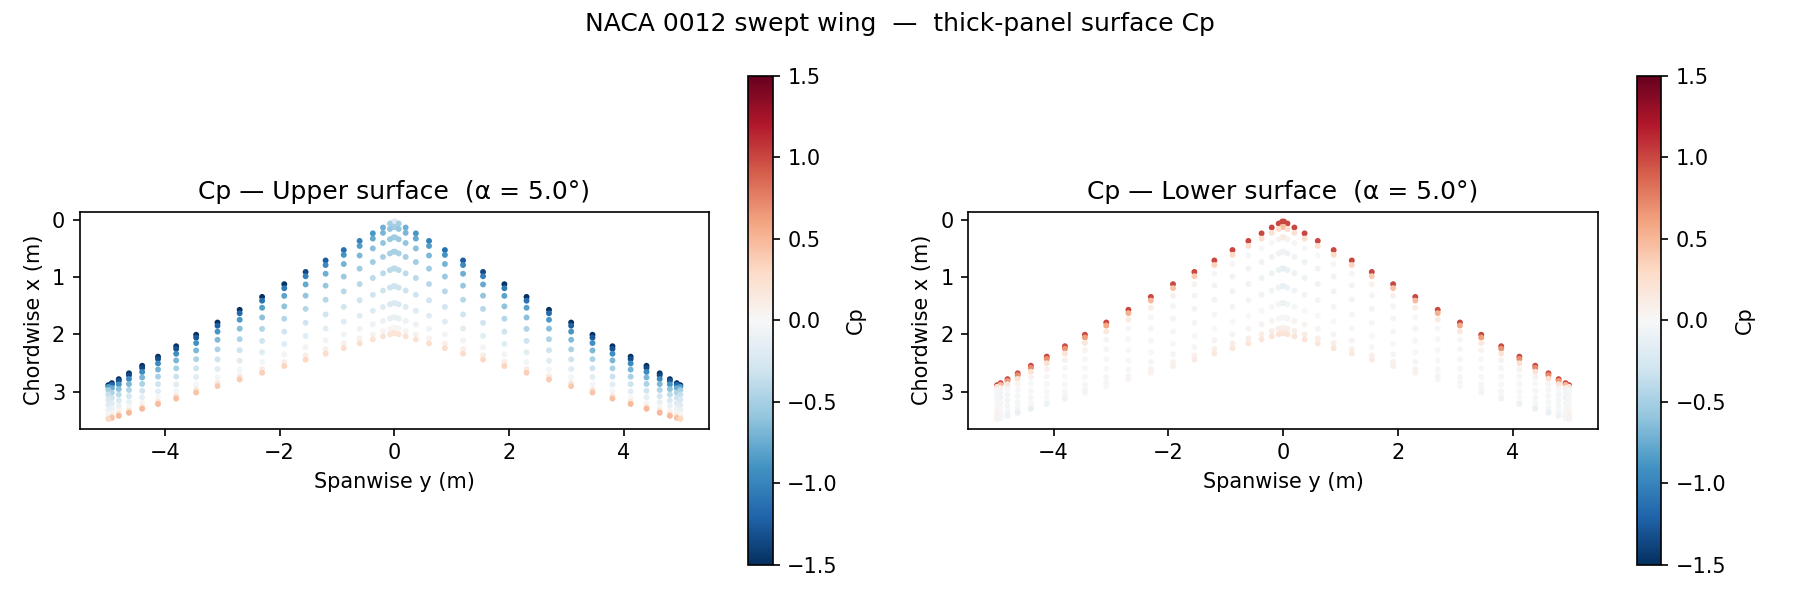
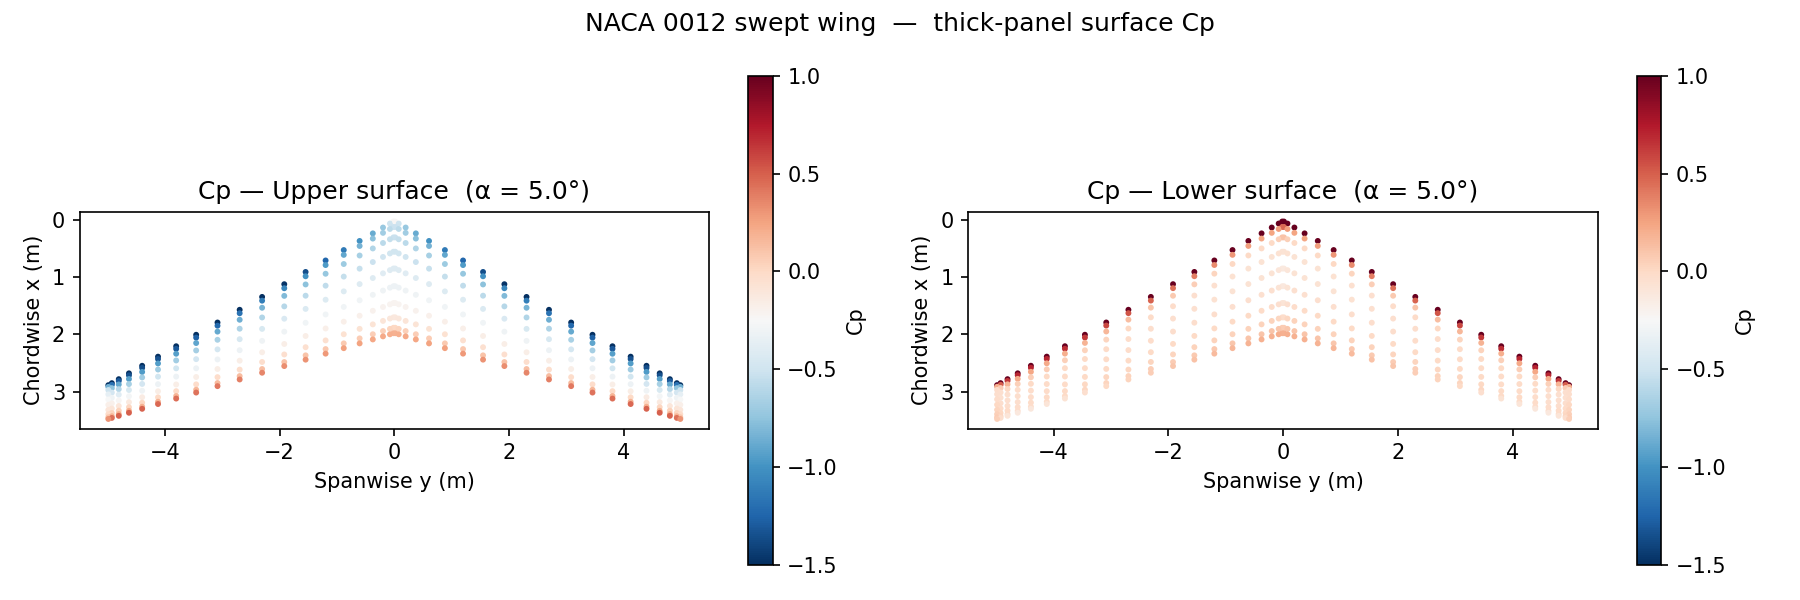
example 03: spanwise loading comparison, Cp axis fix, contour vmax fix
Three changes to 03_thick_flying_wing.py:

1. New figure 03_spanwise_loading.png
   Compares dCL/dη vs η at the design point from two methods:
   - VLM K-J (near-field per-panel dCL, summed over chord per strip)
   - TP Cp-integrated (upper+lower panel forces projected onto lift
     direction, summed over chord per strip, normalised by q·S_ref·Δη)
   Elliptic reference matched to TP total CL is also shown.

2. Cp axis orientation in 03_Cp_chordwise.png
   Replaced ax.invert_yaxis() + set_ylim(min,max) with
   set_ylim(1.3, ymin) directly — passing bottom > top in set_ylim
   produces the inverted axis without relying on invert_yaxis() whose
   interaction with a subsequent set_ylim is version-dependent.
   Ylabel updated to "Cp (suction up)".

3. Cp_contour vmax 1.5 → 1.0
   solve_morino clips all panel Cp to ≤ 1 (Bernoulli hard bound).
   Setting vmax=1.5 made the colorbar appear to allow Cp>1 even though
   no panel data exceeds 1.0.  Fixed to vmax=1.0.

diff --git a/examples/03_thick_flying_wing/03_thick_flying_wing.py b/examples/03_thick_flying_wing/03_thick_flying_wing.py
@@ -37,7 +37,8 @@ Outputs (saved in same directory as this script)
 -------------------------------------------------
 03_CL_vs_alpha.png         — CL(α): thick-panel vs VLM reference
 03_Cp_contour.png          — Surface Cp contour on upper and lower wing
-03_Cp_chordwise.png        — Chordwise Cp at three spanwise stations
+03_Cp_chordwise.png        — Chordwise Cp at three spanwise stations (TP vs VLM)
+03_spanwise_loading.png    — Spanwise loading dCL/dη: thick-panel (Cp-integrated) vs VLM (K-J)
 """
 import os
 import sys
@@ -142,7 +143,9 @@ for ax, pv, Cp_surf, title in [
     cy_full = np.concatenate([-cy, cy])
     Cp_full = np.concatenate([Cp_surf, Cp_surf])
 
-    vmin, vmax = -1.5, 1.5
+    # vmax=1.0 matches the physical Bernoulli upper bound (data clipped in solve_morino);
+    # vmax=1.5 would make the colorbar appear to allow Cp>1 even though no panel does.
+    vmin, vmax = -1.5, 1.0
     sc = ax.scatter(cy_full, cx_full, c=Cp_full, cmap="RdBu_r",
                     vmin=vmin, vmax=vmax, s=8, linewidths=0)
     ax.set_xlabel("Spanwise y (m)")
@@ -207,12 +210,12 @@ for ax, js, label in zip(axes, js_list, js_labels):
     ax.set_title(label)
     ax.legend(fontsize=7)
     ax.grid(True, alpha=0.3)
-    ax.invert_yaxis()
-    # Fix y-limits so the LE singularity spike in VLM doesn't collapse the scale
-    ylo = min(Cp_up_tp.min(), (-dCp_strip / 2).min()) * 1.15
-    ax.set_ylim(max(ylo, -3.5), 1.3)
+    # Aerodynamic convention: suction (negative Cp) at top.
+    # set_ylim(bottom, top) with bottom > top produces the inverted axis directly.
+    ymin = min(Cp_up_tp.min(), (-dCp_strip / 2).min()) * 1.15
+    ax.set_ylim(1.3, max(ymin, -3.5))
 
-axes[0].set_ylabel("Cp  (inverted, suction up)")
+axes[0].set_ylabel("Cp  (suction up)")
 fig.suptitle(
     f"Chordwise Cp — thick panel vs VLM  |  NACA 0012, α = {ALPHA_DESIGN}°"
     f"  (CL = {result['CL']:.3f})\n"
@@ -223,6 +226,67 @@ fig.tight_layout()
 fig.savefig(os.path.join(OUT_DIR, "03_Cp_chordwise.png"), dpi=150)
 plt.close(fig)
 print("Saved 03_Cp_chordwise.png")
+
+# ── Plot 4: Spanwise loading — thick panel (Cp-integrated) vs VLM (K-J) ───
+#
+# VLM dCL/dη: sum the K-J per-panel dCL over chord, then divide by Δη.
+# TP  dCL/dη: sum the Cp-pressure forces (upper + lower) over chord per strip,
+#             project onto the lift direction, then divide by q·S_ref·Δη.
+#
+# Panel layout: index = ic * N_SPAN + js → reshape to (N_CHORD, N_SPAN).
+
+# --- VLM spanwise loading ---
+A_v  = vlm_design["A"]
+B_v  = vlm_design["B"]
+dCL_v_2d = vlm_design["dCL"].reshape(N_CHORD, N_SPAN)
+y_v_2d   = (0.5 * (A_v[:, 1] + B_v[:, 1])).reshape(N_CHORD, N_SPAN)
+dy_v_2d  = (B_v[:, 1] - A_v[:, 1]).reshape(N_CHORD, N_SPAN)
+
+dCL_strip_v = dCL_v_2d.sum(axis=0)       # (N_SPAN,) K-J lift per strip
+y_strip     = y_v_2d.mean(axis=0)        # strip centre y (identical for all ic)
+dy_strip    = dy_v_2d.mean(axis=0)       # spanwise width (identical for all ic)
+eta         = y_strip / HALF_SPAN
+deta        = dy_strip / HALF_SPAN
+load_v      = dCL_strip_v / deta
+
+# --- TP spanwise loading (from Cp-integrated forces) ---
+forces_tp = result["forces"]             # (Np, 3)
+V_inf_tp  = result["V_inf"]
+V_hat     = V_inf_tp / np.linalg.norm(V_inf_tp)
+e_lift    = np.array([-V_hat[2], 0.0, V_hat[0]])
+e_lift   /= max(float(np.linalg.norm(e_lift)), 1e-12)
+q_ref     = 0.5 * 1.225 * 1.0 ** 2      # rho=1.225, V_mag=1
+
+forces_up = forces_tp[:n_up].reshape(N_CHORD, N_SPAN, 3)
+forces_lo = forces_tp[n_up:2 * n_up].reshape(N_CHORD, N_SPAN, 3)
+l_up      = np.einsum("ijk,k->ij", forces_up, e_lift)   # (N_CHORD, N_SPAN)
+l_lo      = np.einsum("ijk,k->ij", forces_lo, e_lift)
+l_strip   = (l_up + l_lo).sum(axis=0)                   # sum over chord
+dCL_strip_tp = l_strip / (q_ref * result["S_ref"])
+load_tp      = dCL_strip_tp / deta
+
+# --- Elliptic reference matched to TP total CL ---
+elliptic = np.sqrt(np.maximum(1.0 - eta ** 2, 0.0))
+scale    = (load_tp * deta).sum() / ((elliptic * deta).sum() + 1e-30)
+load_ell = elliptic * scale
+
+fig, ax = plt.subplots(figsize=(7, 4))
+ax.plot(eta, load_v,   "k--",  lw=1.5, label=f"VLM K-J  (CL={vlm_design['CL']:.3f})")
+ax.plot(eta, load_tp,  "b-o",  ms=4,   label=f"TP Cp-int (CL={result['CL_cp']:.3f})")
+ax.plot(eta, load_ell, "r:",   lw=1.0, label="Elliptic ref")
+ax.set_xlabel("η = y / (b/2)")
+ax.set_ylabel("Spanwise loading  dCL/dη")
+ax.set_title(
+    f"Spanwise loading — swept flying wing, α = {ALPHA_DESIGN}°\n"
+    "VLM (K-J near-field) vs thick-panel (Cp-pressure integration)"
+)
+ax.set_xlim(0.0, 1.0)
+ax.legend(fontsize=9)
+ax.grid(True, alpha=0.3)
+fig.tight_layout()
+fig.savefig(os.path.join(OUT_DIR, "03_spanwise_loading.png"), dpi=150)
+plt.close(fig)
+print("Saved 03_spanwise_loading.png")
 
 # ── Summary ────────────────────────────────────────────────────────────────
 print(f"\n=== Design point α = {ALPHA_DESIGN}° ===")
